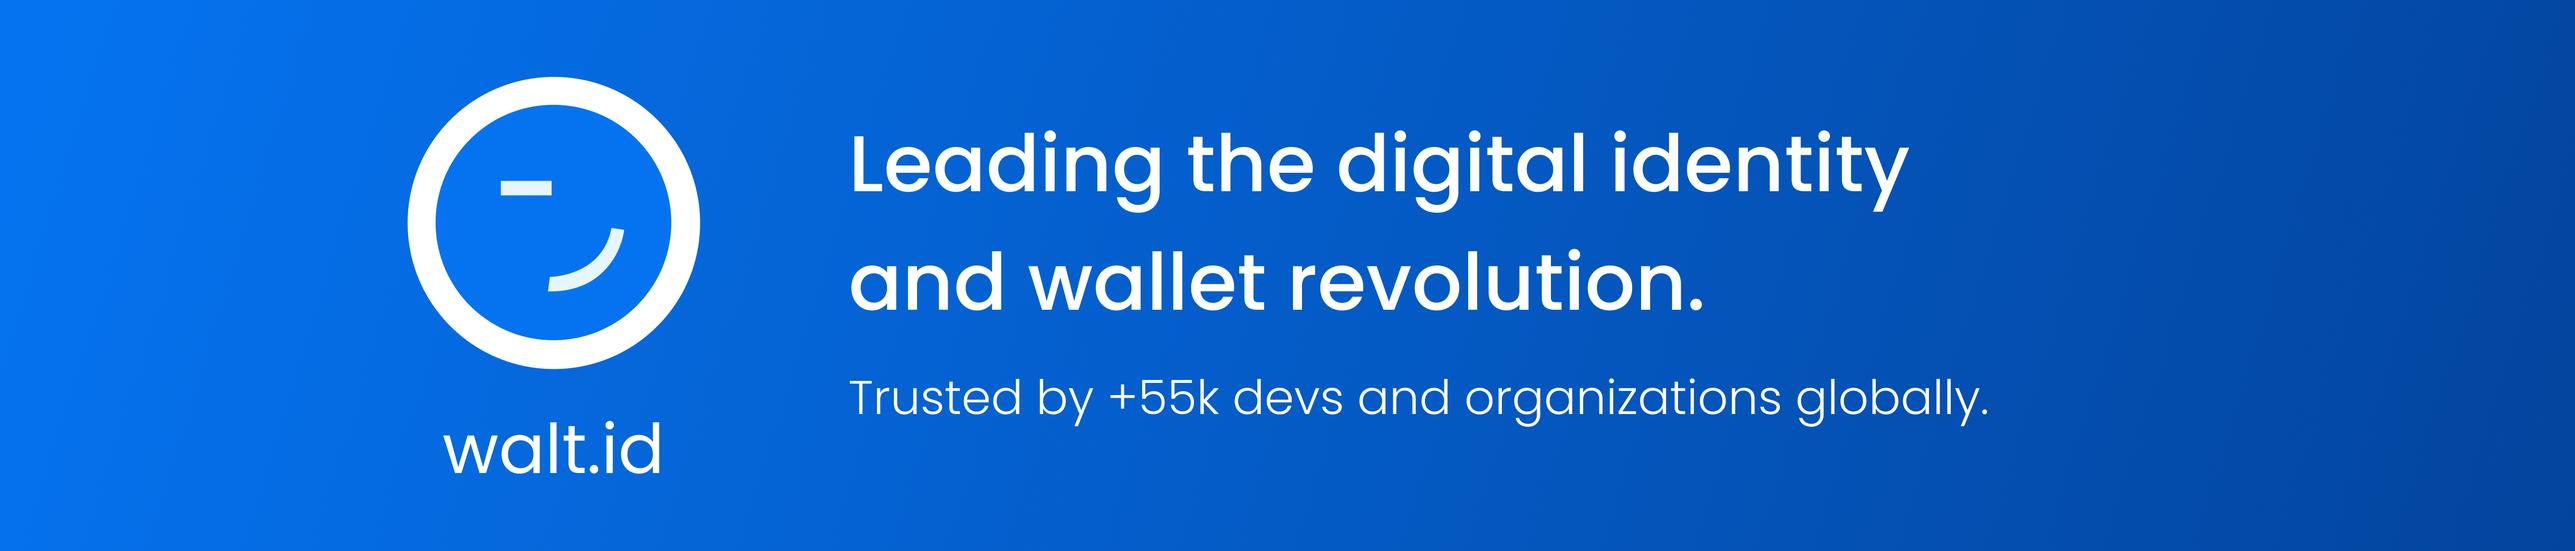
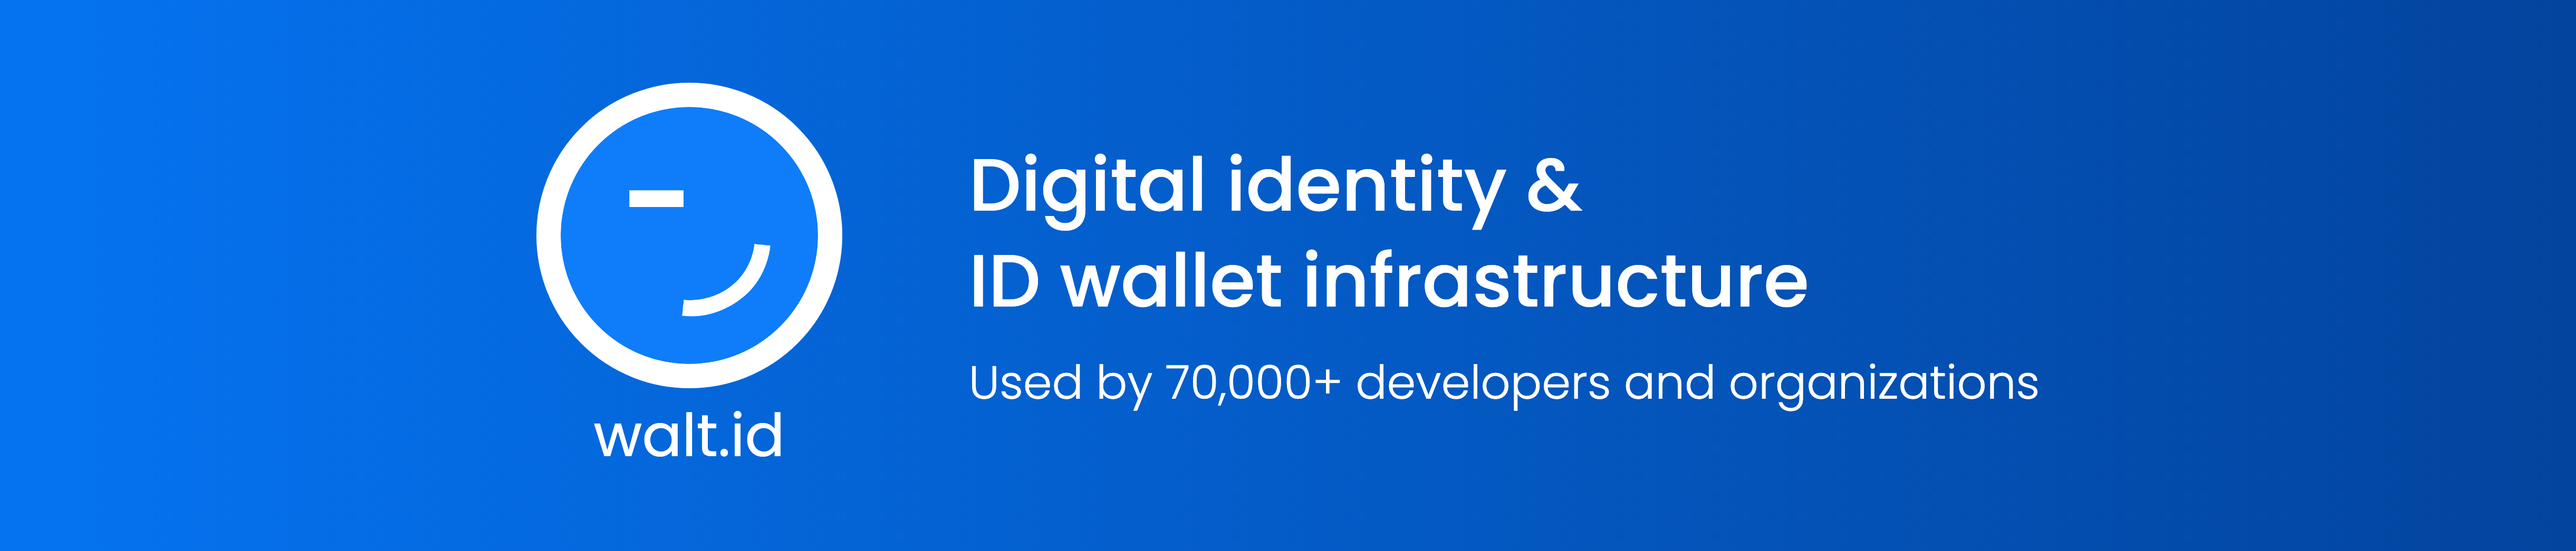
README update

Changed region(s): [[0.1556, 0.1224, 0.7471, 0.7036], [0.3424, 0.6424, 0.8093, 0.7648], [0.1556, 0.7648, 0.3113, 0.8566]]

diff --git a/README.md b/README.md
@@ -19,7 +19,9 @@
 
 ## What is walt.id?
 
-walt.id provides open-source digital ID and wallet infrastructure for issuing, holding and verifying digital identity credentials — standards-based (OpenID4VCI 1.0, OpenID4VP 1.0, HAIP, W3C Verifiable Credentials, SD-JWT VCs, mdoc/mDL) and designed to run entirely on your own infrastructure (on-prem), with no vendor lock-in.
+walt.id is a Vienna-based digital identity and wallet infrastructure company whose open-source and enterprise software lets governments and businesses worldwide issue, hold and verify digital credentials, including for eIDAS 2 and the EU Digital Identity (EUDI) Wallet. walt.id's software is used by more than 70,000 developers and organizations, including the European Union (EUDI Wallet reference implementation), governments (EMEA, APAC, Americas), hundreds of banks and global enterprises in technology, telco, payments, identity, security, trust services, travel, education among others.
+
+walt.id's solutions build on open standards, including OpenID4VCI 1.0, OpenID4VP 1.0, HAIP 1.0, the Digital Credentials API, SD-JWT VC, ISO mdoc/mDL (ISO/IEC 18013-5) and W3C Verifiable Credentials:
 
 
 | Issuer                                                 | Wallet                                          | Verifier                                         |
@@ -28,7 +30,9 @@ walt.id provides open-source digital ID and wallet infrastructure for issuing, h
 
 
 This repository — the **Community Stack** — is the free, open-source edition of the walt.id product
-line. See [Product Editions](#product-editions) below for how it compares to the commercial **Enterprise Stack**.
+line. Like the Enterprise Stack, it is self-managed and runs entirely on-premises or in a private cloud,
+with no vendor lock-in. See [Product Editions](#product-editions) below for how it compares to the
+commercial **Enterprise Stack**.
 
 ## Architecture
 
@@ -46,7 +50,7 @@ line. See [Product Editions](#product-editions) below for how it compares to the
 <td align="center" width="50%">
 <img src="assets/Product-Editions3-enterprise.png" alt="Enterprise Stack: compliance and scale features for regulated deployments" width="100%" />
 <br />
-<strong><a href="https://walt.id/pricing">Learn more about the Enterprise Stack</a></strong>
+<strong><a href="https://walt.id/enterprise-stack">Learn more about the Enterprise Stack</a></strong>
 </td>
 </tr>
 </table>
@@ -59,7 +63,8 @@ usage guides, see the [docs site](https://docs.walt.id).
 
 ### Test out the walt.id products
 
-All of our APIs are hosted at demo.walt.id. Depending on the service you are interested in, you can visit the following links:
+Public demo instances of all APIs are available at demo.walt.id, for testing only. For production
+use, the services are self-managed, on-premises or in a private cloud. Depending on the service you are interested in, you can visit the following links:
 
 > The links below point to our current v2 APIs (`issuer-api2`, `verifier-api2`, `wallet-api2`). If
 > you come across an older `waltid-*-api` service elsewhere in this repo, that's the legacy v1
@@ -67,12 +72,10 @@ All of our APIs are hosted at demo.walt.id. Depending on the service you are int
 
 - **Issuer API** - ([Portal](https://portal2.demo.walt.id) | [Swagger](https://issuer2.demo.walt.id/swagger) | [Docs](https://docs.walt.id/community-stack/issuer2/getting-started)  | [GitHub](https://github.com/walt-id/waltid-identity/tree/main/waltid-services/waltid-issuer-api2)) - enable apps to issue credentials (W3C VCs, SD-JWT VCs, mdoc/mDL) via OID4VCI 1.0.
 - **Verifier API** - ([Portal](https://portal2.demo.walt.id) | [Swagger](https://verifier2.demo.walt.id/swagger) | [Docs](https://docs.walt.id/community-stack/verifier2/getting-started) | [GitHub](https://github.com/walt-id/waltid-identity/tree/main/waltid-services/waltid-verifier-api2)) - enable apps to verify credentials (W3C VCs, SD-JWT VCs, mdoc/mDL) via OID4VP 1.0.
-- **Wallet API** - ([Web App (coming soon)] | [Swagger](https://wallet-api2.demo.walt.id/swagger) | [Docs](https://docs.walt.id/community-stack/wallet2/getting-started) | [GitHub](https://github.com/walt-id/waltid-identity/tree/main/waltid-services/waltid-wallet-api2)) - extend apps with wallet capabilities to collect, store, manage and share credentials.
-- **Wallet SDK** - ([Docs (coming soon)] | [GitHub](https://github.com/walt-id/waltid-identity/tree/main/waltid-libraries/protocols/waltid-openid4vc-wallet)) - a complete wallet library supporting both OpenID4VCI 1.0 and OpenID4VP 1.0.
+- **Wallet API** - ([Web App](https://wallet2.demo.walt.id) | [Swagger](https://wallet-api2.demo.walt.id/swagger) | [Docs](https://docs.walt.id/community-stack/wallet2/getting-started) | [GitHub](https://github.com/walt-id/waltid-identity/tree/main/waltid-services/waltid-wallet-api2)) - extend apps with wallet capabilities to collect, store, manage and share credentials.
+- **Wallet SDK** - ([Docs](https://docs.walt.id/community-stack/mobile-wallet/getting-started) | [GitHub](https://github.com/walt-id/waltid-identity/tree/main/waltid-libraries/protocols/waltid-openid4vc-wallet)) - a complete wallet library supporting both OpenID4VCI 1.0 and OpenID4VP 1.0, for non-custodial or hybrid wallets in native Android and iOS apps.
   - **Compose Wallet** - ([Android via APK](https://github.com/walt-id/waltid-identity/releases) | [Android via Firebase](https://appdistribution.firebase.dev/i/c44f974707e7c1be) | [iOS Testflight](https://testflight.apple.com/join/QUyV6wT2) | [Github](https://github.com/walt-id/waltid-identity/tree/main/waltid-applications/waltid-wallet-demo-compose))
   - **iOS Wallet** - ([iOS Testflight](https://testflight.apple.com/join/Ug3kRbQX) | [Github](https://github.com/walt-id/waltid-identity/tree/main/waltid-applications/waltid-wallet-demo-ios))
-
-We are still in the process of building new open source portals as well as the new web wallet app to allow you to quickly test out the products!
 
 Use the [walt.id identity package](https://github.com/walt-id/waltid-identity/tree/main/docker-compose) to run all APIs and Apps with docker:
 
@@ -104,7 +107,7 @@ Some popular libraries you may want to look at are:
 - **W3C Credentials** ([GitHub](https://github.com/walt-id/waltid-identity/tree/main/waltid-libraries/credentials/waltid-w3c-credentials)) - issue and verify W3C credentials as JWTs and SD-JWTs.
 - **mdoc Credentials** ([GitHub](https://github.com/walt-id/waltid-identity/tree/main/waltid-libraries/credentials/waltid-mdoc-credentials2)) - issue and verify mdoc credentials (mDL ISO/IEC 18013-5).
 - **SD-JWT** ([GitHub](https://github.com/walt-id/waltid-identity/tree/main/waltid-libraries/sdjwt/waltid-sdjwt)) - create and verify Selective Disclosure JWTs.
-- **OpenID4VCI** ([GitHub](https://github.com/walt-id/waltid-identity/tree/main/waltid-libraries/protocols/waltid-openid4vci)) - implementation of the OID4VCI 1.0 protocol. Results from [OpenID Foundation's Conformance Suite (coming soon)]
+- **OpenID4VCI** ([GitHub](https://github.com/walt-id/waltid-identity/tree/main/waltid-libraries/protocols/waltid-openid4vci)) - implementation of the OID4VCI 1.0 protocol. Passes the OpenID Foundation conformance tests (results to be published).
 - **OpenID4VP** ([GitHub](https://github.com/walt-id/waltid-identity/tree/main/waltid-libraries/protocols/waltid-openid4vp)) - implementation of the OpenID4VP 1.0 protocol. Results from [OpenID Foundation's Conformance Suite](https://conformance.waltid.cloud/logs.html)
 - **Core Wallet** ([GitHub](https://github.com/walt-id/waltid-identity/tree/main/waltid-libraries/protocols/waltid-openid4vc-wallet)) - implementation of the Core Wallet library supporting both OpenID4VCI 1.0 and OpenID4VP 1.0.
 
